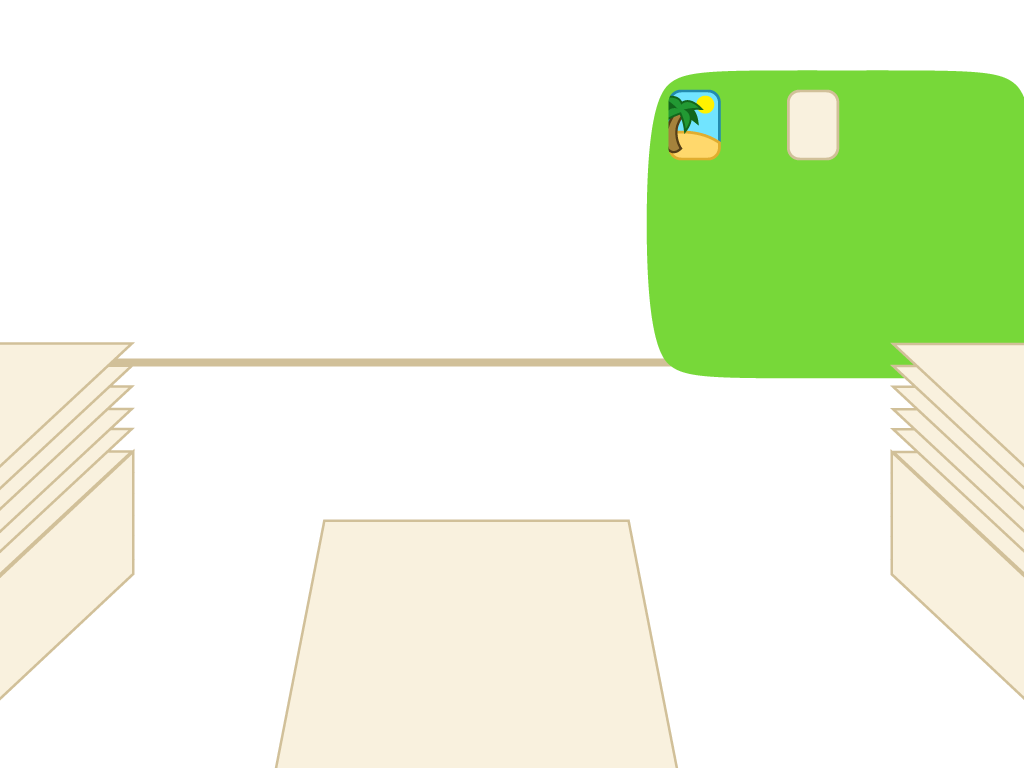
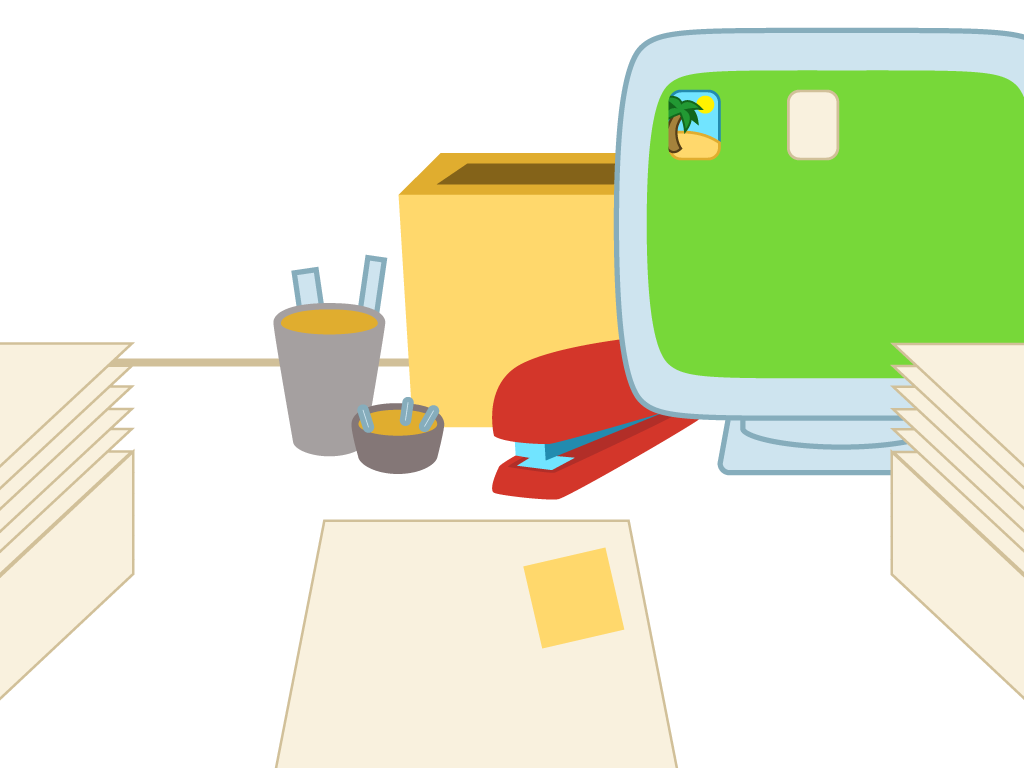
Tweaks

Changed region(s): [[0.25, 0.0312, 1.0, 0.6562], [0.5, 0.7188, 0.625, 0.8438]]

diff --git a/src/scripts/game.ts b/src/scripts/game.ts
@@ -5,17 +5,22 @@ module Ala3 {
 
         constructor() {
             super({
-                width: window.innerWidth,
-                height: window.innerHeight,
+                width: 1024,
+                height: 768,
                 renderer: Phaser.AUTO
             });
 
             this.state.add('preloader', State.Preloader, true);
             this.state.add('game', State.Game);
         }
+
+        boot() {
+            super.boot();
+            this.scale.scaleMode = Phaser.ScaleManager.SHOW_ALL;
+        }
     }
 }
 
 // export Game to window
-var Game = Ala3.Game;
+let Game = Ala3.Game;
 

diff --git a/src/scripts/entity/solitaire.ts b/src/scripts/entity/solitaire.ts
@@ -34,10 +34,10 @@ module Ala3.Entity {
             };
 
             this.tableauPos = {
-                x: 300,
-                y: 500,
+                x: 10,
+                y: 170,
                 vSpacing: 20,
-                stackSpacing: cardSize.w + 20,
+                stackSpacing: cardSize.w + 10,
                 width: 0,
                 height: 0,
                 bounds: {

diff --git a/src/scripts/state/preloader.ts b/src/scripts/state/preloader.ts
@@ -4,6 +4,9 @@ module Ala3.State {
 
         preload() {
             this.loadingBar = new Entity.PreloadBar(this.game);
+
+            this.load.image('mockup', 'assets/images/mockup.png');
+
             this.load.image('card-back', 'assets/images/card-back-tropical.png');
             this.load.image('card-front', 'assets/images/card-front.png');
         }

diff --git a/src/scripts/state/game.ts b/src/scripts/state/game.ts
@@ -5,7 +5,9 @@ module Ala3.State {
             img.anchor.x = 0.5;
             img.anchor.y = 0.5;*/
 
-            let solitaire = new Entity.Solitaire(this.game, 0 ,0);
+            this.add.sprite(0, 0, 'mockup');
+
+            let solitaire = new Entity.Solitaire(this.game, 664 ,72);
             this.add.existing(solitaire);
         }
     }
